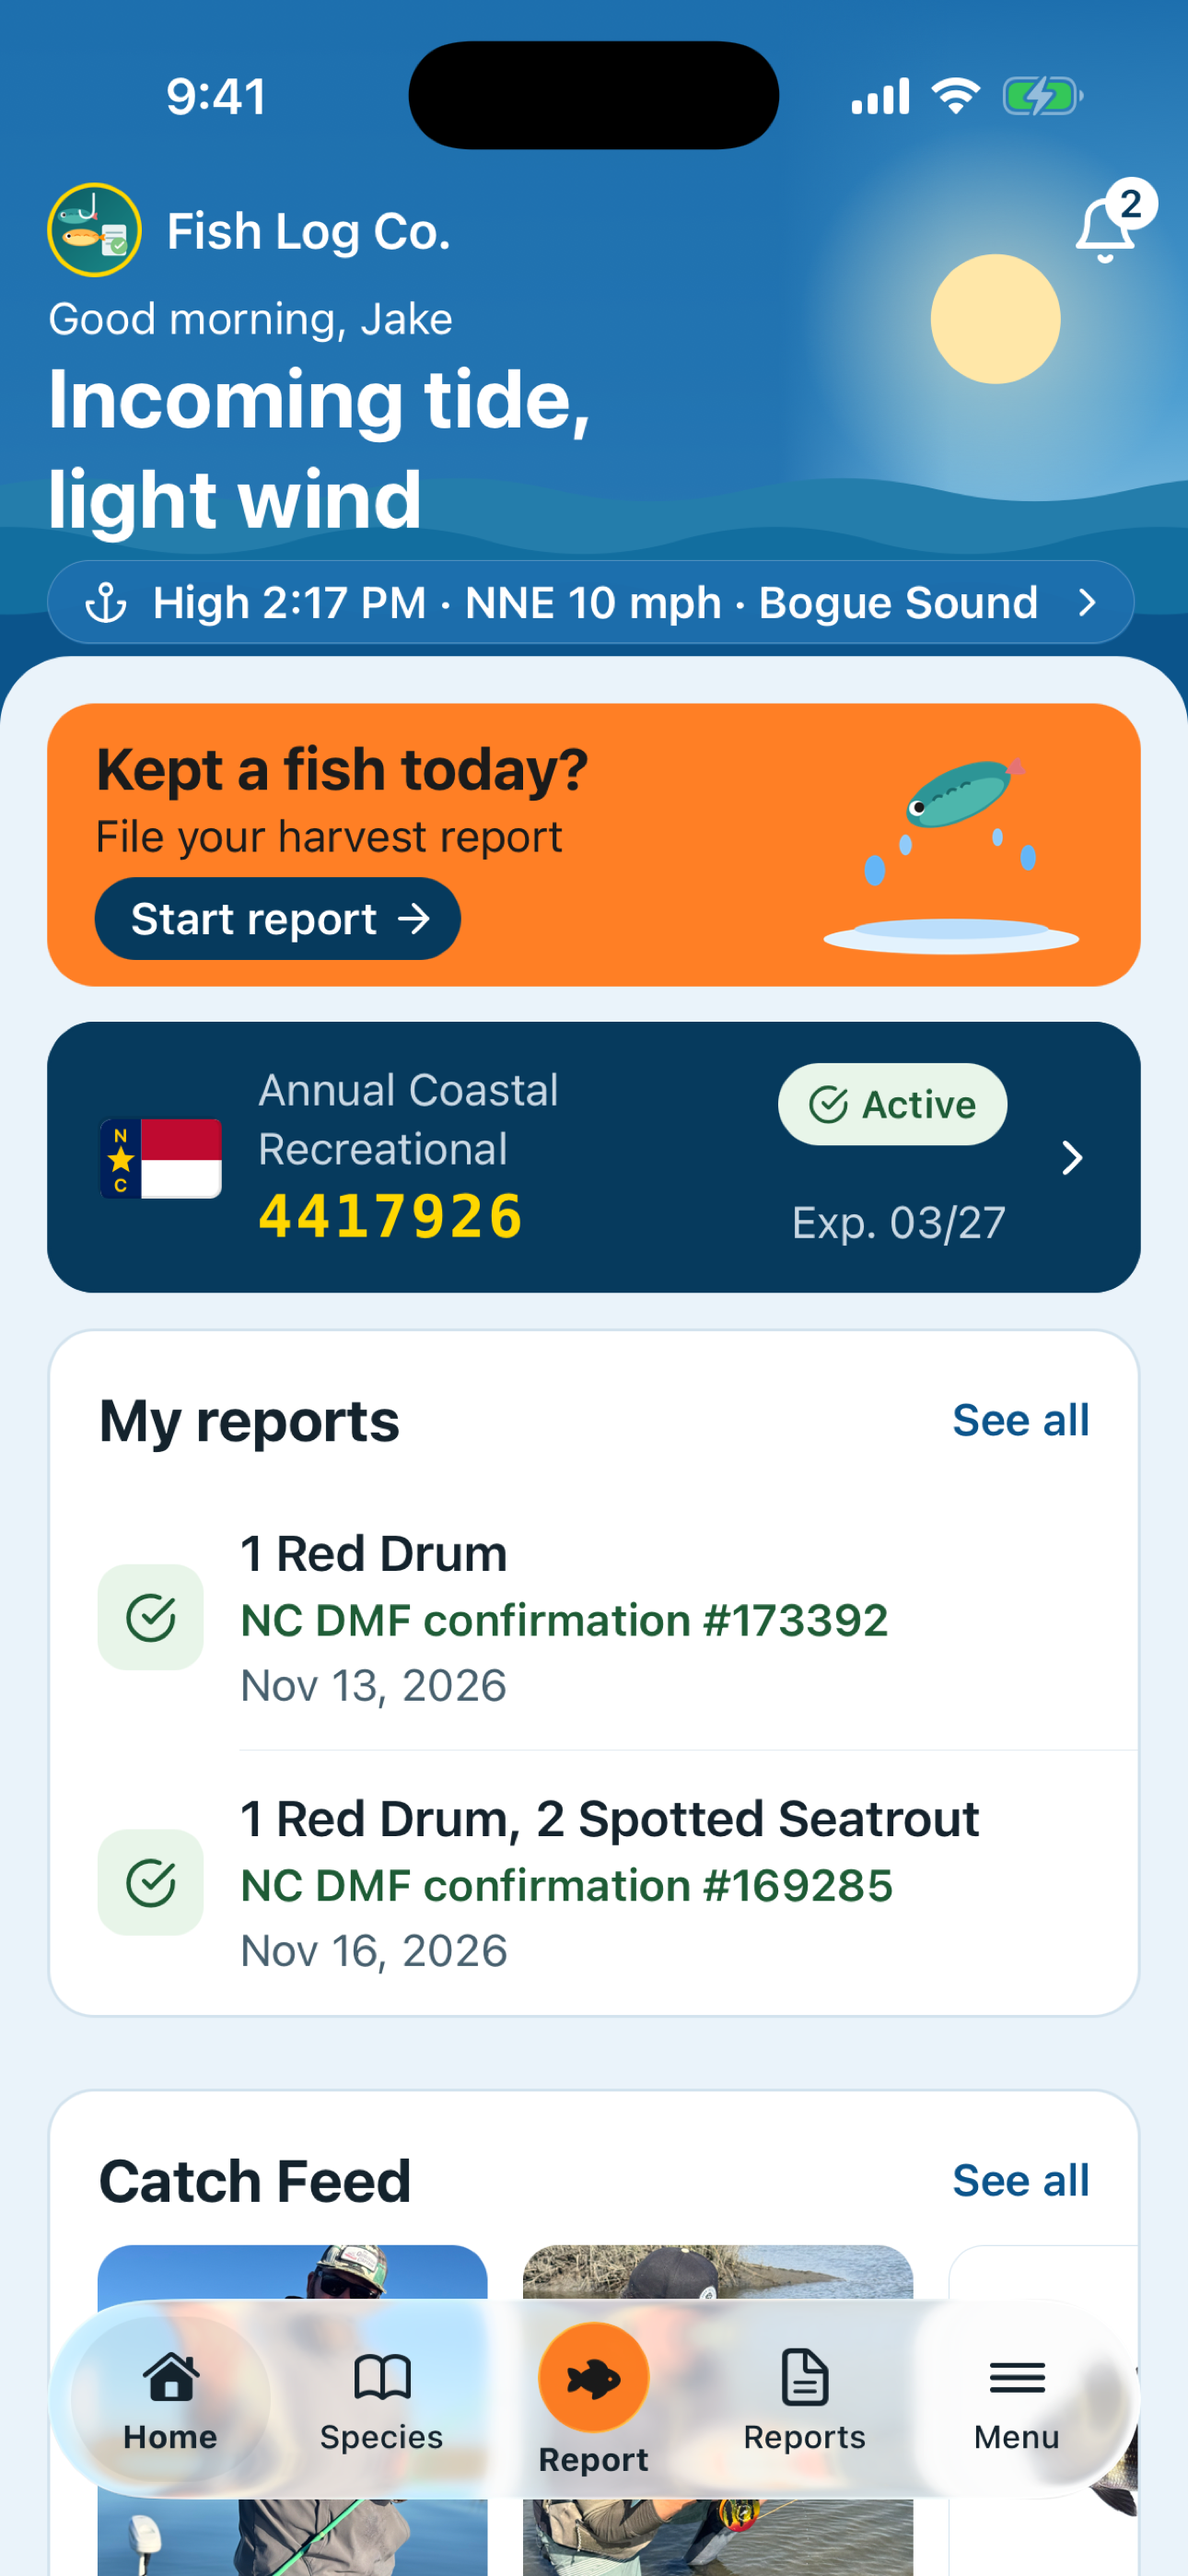
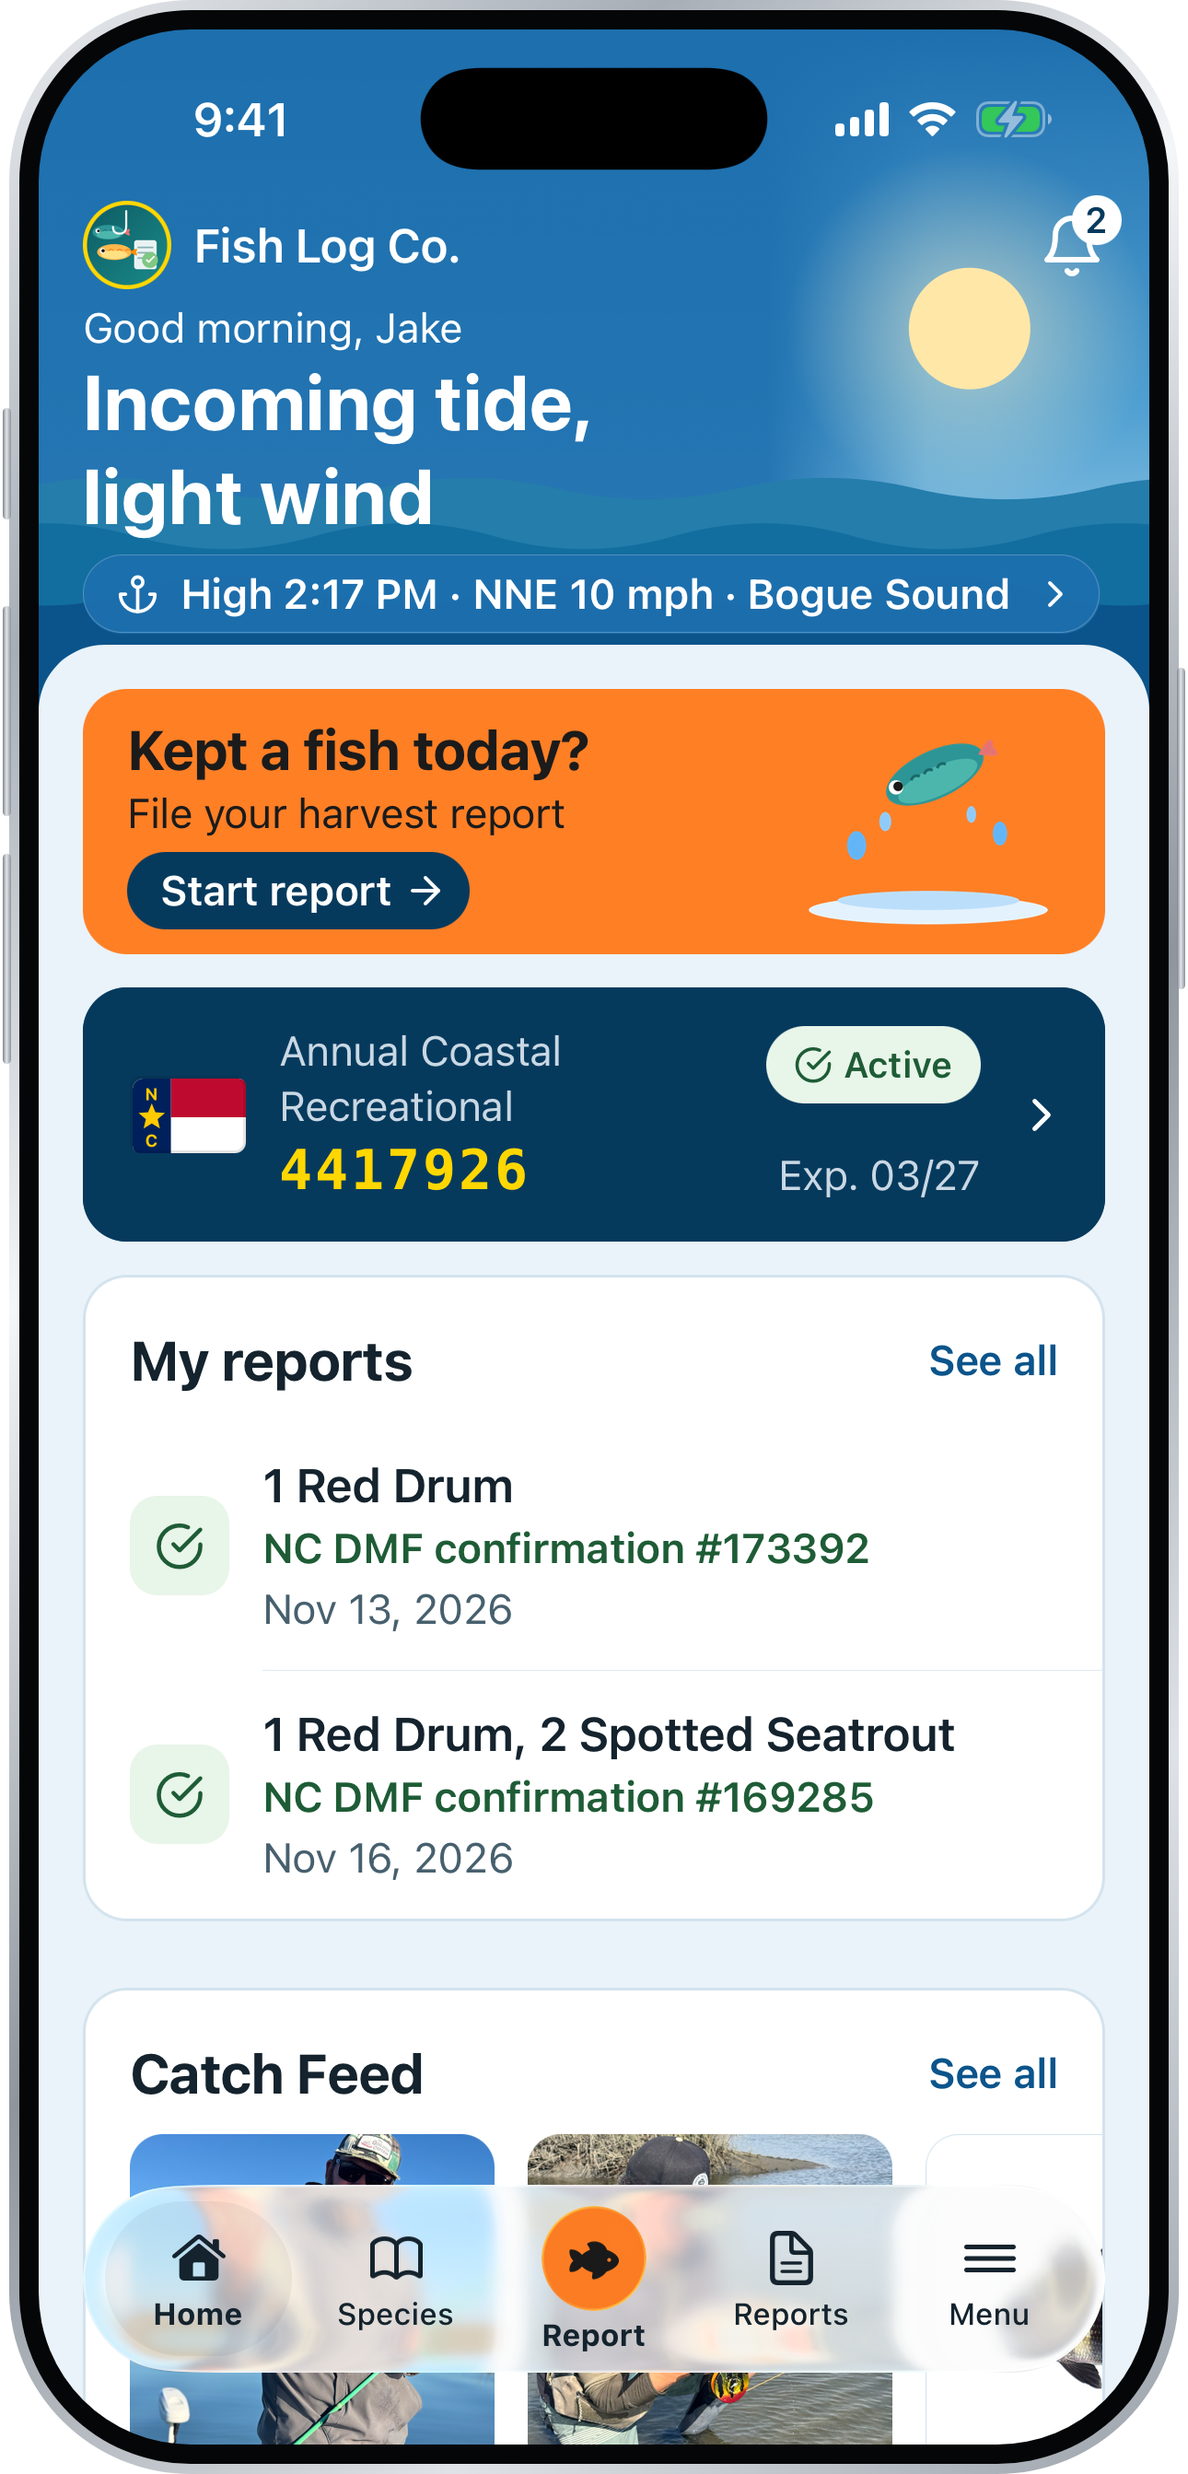
Frame the homepage screenshots in a real iPhone
The four app screenshots were flat rectangles with CSS rounding and a
status-bar crop. They are now the whole phone, like the App Store previews:
an iPhone 17 Pro frame (black bezel, metal band, side buttons) around each
screen, on a transparent background. The CSS drops the rounding, border,
box-shadow and status-bar crop, and shadows the tiles with drop-shadow so
the shadow follows the phone's outline. Width and height attributes match
the new 1290x2686 proportions.

diff --git a/index.html b/index.html
@@ -32,7 +32,7 @@
       rel="stylesheet"
       href="https://fonts.googleapis.com/css2?family=Fraunces:opsz,wght@9..144,500;9..144,600;9..144,700&family=Inter:wght@400;500;600;700&display=swap"
     />
-    <link rel="stylesheet" href="style.css?v=3f06f58f" />
+    <link rel="stylesheet" href="style.css?v=23cb71d3" />
     <noscript>
       <!-- .reveal starts at opacity 0 and JS adds .is-visible; without this
            everything below the hero is invisible when JS is off. -->
@@ -166,7 +166,7 @@
                   src="images/screen-rewards.webp"
                   alt="Fish Log Co. quarterly drawing screen showing an entered angler"
                   width="720"
-                  height="1561"
+                  height="1499"
                   decoding="async"
                   onerror="this.closest('.phone-mockup').style.display='none';"
                 />
@@ -178,7 +178,7 @@
                   src="images/hero-phone.webp"
                   alt="Fish Log Co. home screen with tides, wind, license and recent reports"
                   width="800"
-                  height="1734"
+                  height="1666"
                   fetchpriority="high"
                   onerror="this.closest('.phone-mockup').classList.add('phone-mockup--empty'); this.style.display='none';"
                 />
@@ -250,7 +250,7 @@
                 src="images/screen-bulletin.webp"
                 alt="Fish Log Co. bulletins screen listing NC DMF advisories"
                 width="720"
-                height="1561"
+                height="1499"
                 loading="lazy"
                 decoding="async"
                 onerror="this.style.display='none';"
@@ -273,7 +273,7 @@
                 src="images/screen-rewards.webp"
                 alt="Fish Log Co. quarterly drawing screen showing an entered angler"
                 width="720"
-                height="1561"
+                height="1499"
                 loading="lazy"
                 decoding="async"
                 onerror="this.style.display='none';"
@@ -295,7 +295,7 @@
                 src="images/screen-harvest.webp"
                 alt="Fish Log Co. harvest report form with Red Drum and Spotted Seatrout"
                 width="720"
-                height="1561"
+                height="1499"
                 loading="lazy"
                 decoding="async"
                 onerror="this.style.display='none';"

diff --git a/style.css b/style.css
@@ -1161,9 +1161,8 @@ img {
   display: block;
   width: 100%;
   height: auto;
-  border-radius: 40px;
-  border: 8px solid rgba(255, 255, 255, 0.08);
-  clip-path: inset(5.5% 0 0 0 round 40px);
+  /* The image is the whole phone (frame and transparent surround), so it
+     needs no rounding, border or status-bar crop of its own. */
 }
 
 .phone-mockup--primary {
@@ -1199,7 +1198,7 @@ img {
 }
 
 .phone-mockup--empty {
-  aspect-ratio: 9 / 19.5;
+  aspect-ratio: 1290 / 2686;
   background: linear-gradient(160deg, rgba(255, 255, 255, 0.18), rgba(255, 255, 255, 0.06));
   border-radius: 40px;
   border: 1px dashed rgba(255, 255, 255, 0.3);
@@ -1477,10 +1476,9 @@ img {
   width: auto;
   max-width: 100%;
   object-fit: contain;
-  border-radius: 22px;
-  box-shadow: 0 12px 32px rgba(7, 52, 94, 0.3);
-  /* Crop iPhone status bar (top ~5.5% of each screenshot) */
-  clip-path: inset(5.5% 0 0 0 round 22px);
+  /* A framed phone on a transparent background: the shadow follows its
+     outline, which a box-shadow would not. */
+  filter: drop-shadow(0 12px 24px rgba(7, 52, 94, 0.28));
 }
 
 .bento__body {
@@ -1813,8 +1811,6 @@ img {
     max-height: none;
     object-fit: contain;
     align-self: flex-start;
-    border-radius: 18px 18px 0 0;
-    clip-path: inset(5.5% 0 0 0 round 18px 18px 0 0);
   }
 
   .bento__body {

diff --git a/delete-account.html b/delete-account.html
@@ -26,7 +26,7 @@
   <link rel="preconnect" href="https://fonts.googleapis.com">
   <link rel="preconnect" href="https://fonts.gstatic.com" crossorigin>
   <link rel="stylesheet" href="https://fonts.googleapis.com/css2?family=Fraunces:opsz,wght@9..144,500;9..144,600;9..144,700&family=Inter:wght@400;500;600;700&display=swap">
-  <link rel="stylesheet" href="style.css?v=3f06f58f">
+  <link rel="stylesheet" href="style.css?v=23cb71d3">
 </head>
 <body>
     <a class="skip-link" href="#main">Skip to content</a>

diff --git a/privacy.html b/privacy.html
@@ -26,7 +26,7 @@
   <link rel="preconnect" href="https://fonts.googleapis.com">
   <link rel="preconnect" href="https://fonts.gstatic.com" crossorigin>
   <link rel="stylesheet" href="https://fonts.googleapis.com/css2?family=Fraunces:opsz,wght@9..144,500;9..144,600;9..144,700&family=Inter:wght@400;500;600;700&display=swap">
-  <link rel="stylesheet" href="style.css?v=3f06f58f">
+  <link rel="stylesheet" href="style.css?v=23cb71d3">
 </head>
 <body>
     <a class="skip-link" href="#main">Skip to content</a>

diff --git a/support.html b/support.html
@@ -26,7 +26,7 @@
   <link rel="preconnect" href="https://fonts.googleapis.com">
   <link rel="preconnect" href="https://fonts.gstatic.com" crossorigin>
   <link rel="stylesheet" href="https://fonts.googleapis.com/css2?family=Fraunces:opsz,wght@9..144,500;9..144,600;9..144,700&family=Inter:wght@400;500;600;700&display=swap">
-  <link rel="stylesheet" href="style.css?v=3f06f58f">
+  <link rel="stylesheet" href="style.css?v=23cb71d3">
 </head>
 <body>
     <a class="skip-link" href="#main">Skip to content</a>

diff --git a/terms.html b/terms.html
@@ -26,7 +26,7 @@
   <link rel="preconnect" href="https://fonts.googleapis.com">
   <link rel="preconnect" href="https://fonts.gstatic.com" crossorigin>
   <link rel="stylesheet" href="https://fonts.googleapis.com/css2?family=Fraunces:opsz,wght@9..144,500;9..144,600;9..144,700&family=Inter:wght@400;500;600;700&display=swap">
-  <link rel="stylesheet" href="style.css?v=3f06f58f">
+  <link rel="stylesheet" href="style.css?v=23cb71d3">
 </head>
 <body>
     <a class="skip-link" href="#main">Skip to content</a>
